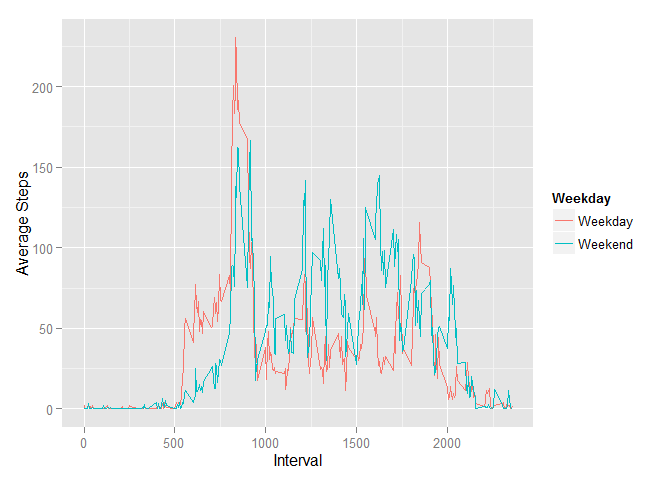
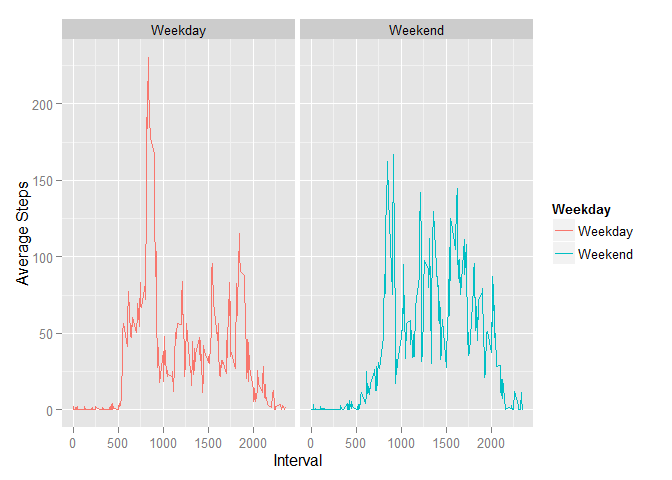
Corrected Last Plot to Have Panels

diff --git a/PA1_template.html b/PA1_template.html
@@ -289,10 +289,11 @@ colnames(Average_Steps_Per_Interval_And_Weekday) &lt;- c(&quot;Interval&quot;, &
 plot1 &lt;- ggplot( data = Average_Steps_Per_Interval_And_Weekday, aes( x     = Interval, y   = Steps,
                                                                      group = Weekday , col = Weekday))
 plot1 &lt;- plot1 + labs( y = &quot;Average Steps&quot;)
+plot1 &lt;- plot1 + facet_wrap( ~ Weekday)
 plot1 &lt;- plot1 + geom_line()
 
 print(plot1)</code></pre>
[2 lines of base64/hex data omitted]
 <pre class="r"><code># Delete file which we unzipped at the start
 unlink(&quot;activity.csv&quot;)</code></pre>
 </div>

diff --git a/PA1_template.md b/PA1_template.md
@@ -319,6 +319,7 @@ colnames(Average_Steps_Per_Interval_And_Weekday) <- c("Interval", "Weekday", "St
 plot1 <- ggplot( data = Average_Steps_Per_Interval_And_Weekday, aes( x     = Interval, y   = Steps,
                                                                      group = Weekday , col = Weekday))
 plot1 <- plot1 + labs( y = "Average Steps")
+plot1 <- plot1 + facet_wrap( ~ Weekday)
 plot1 <- plot1 + geom_line()
 
 print(plot1)
